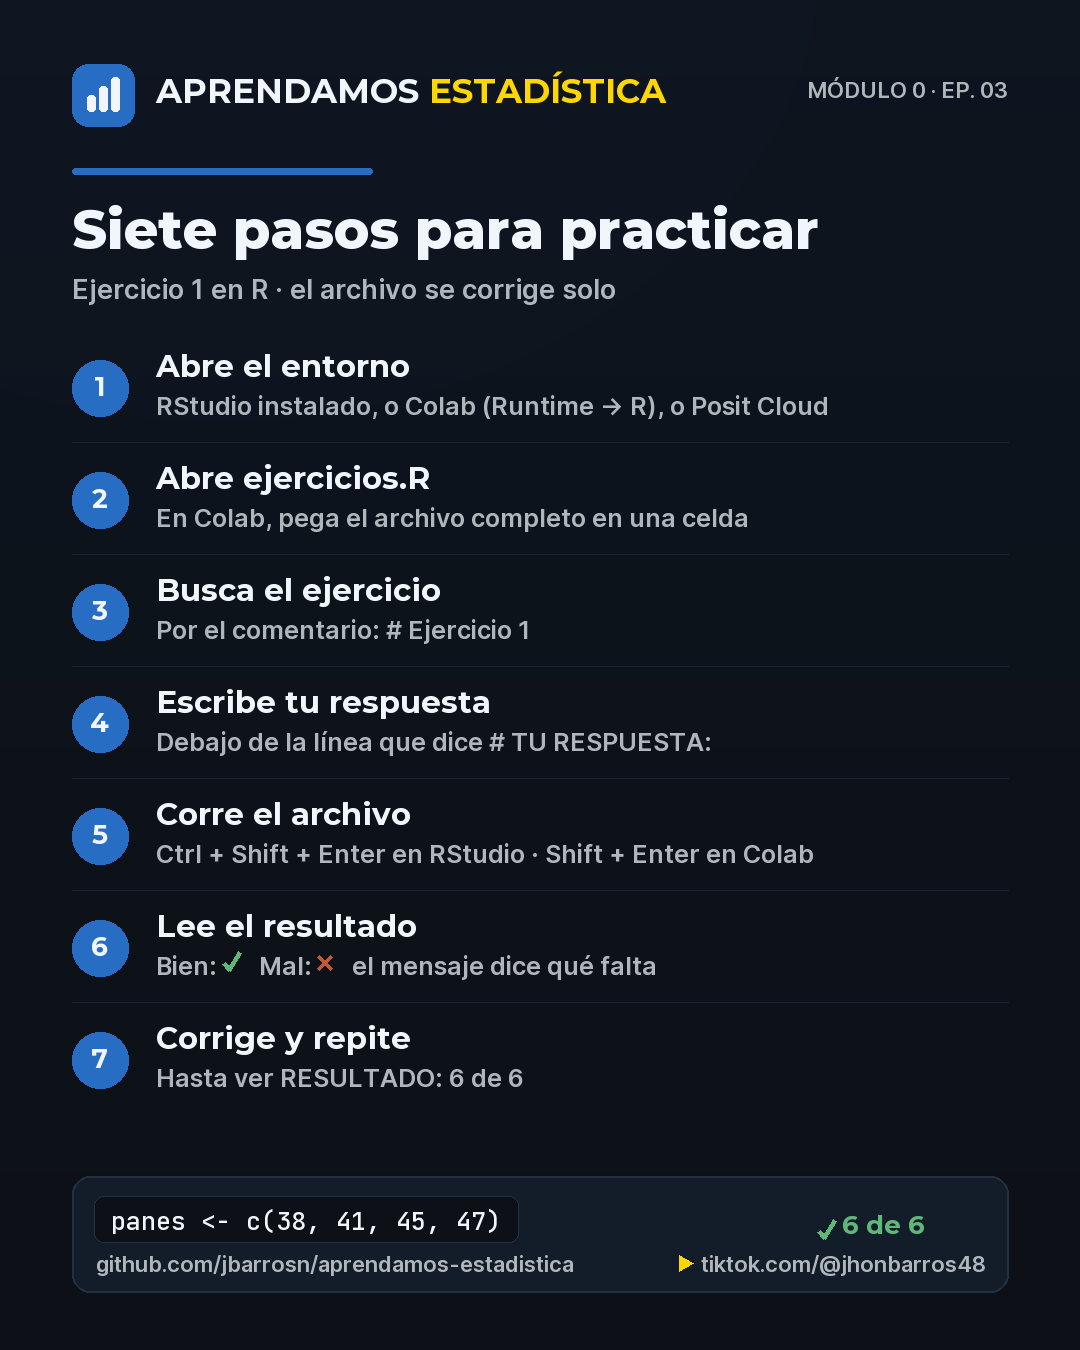
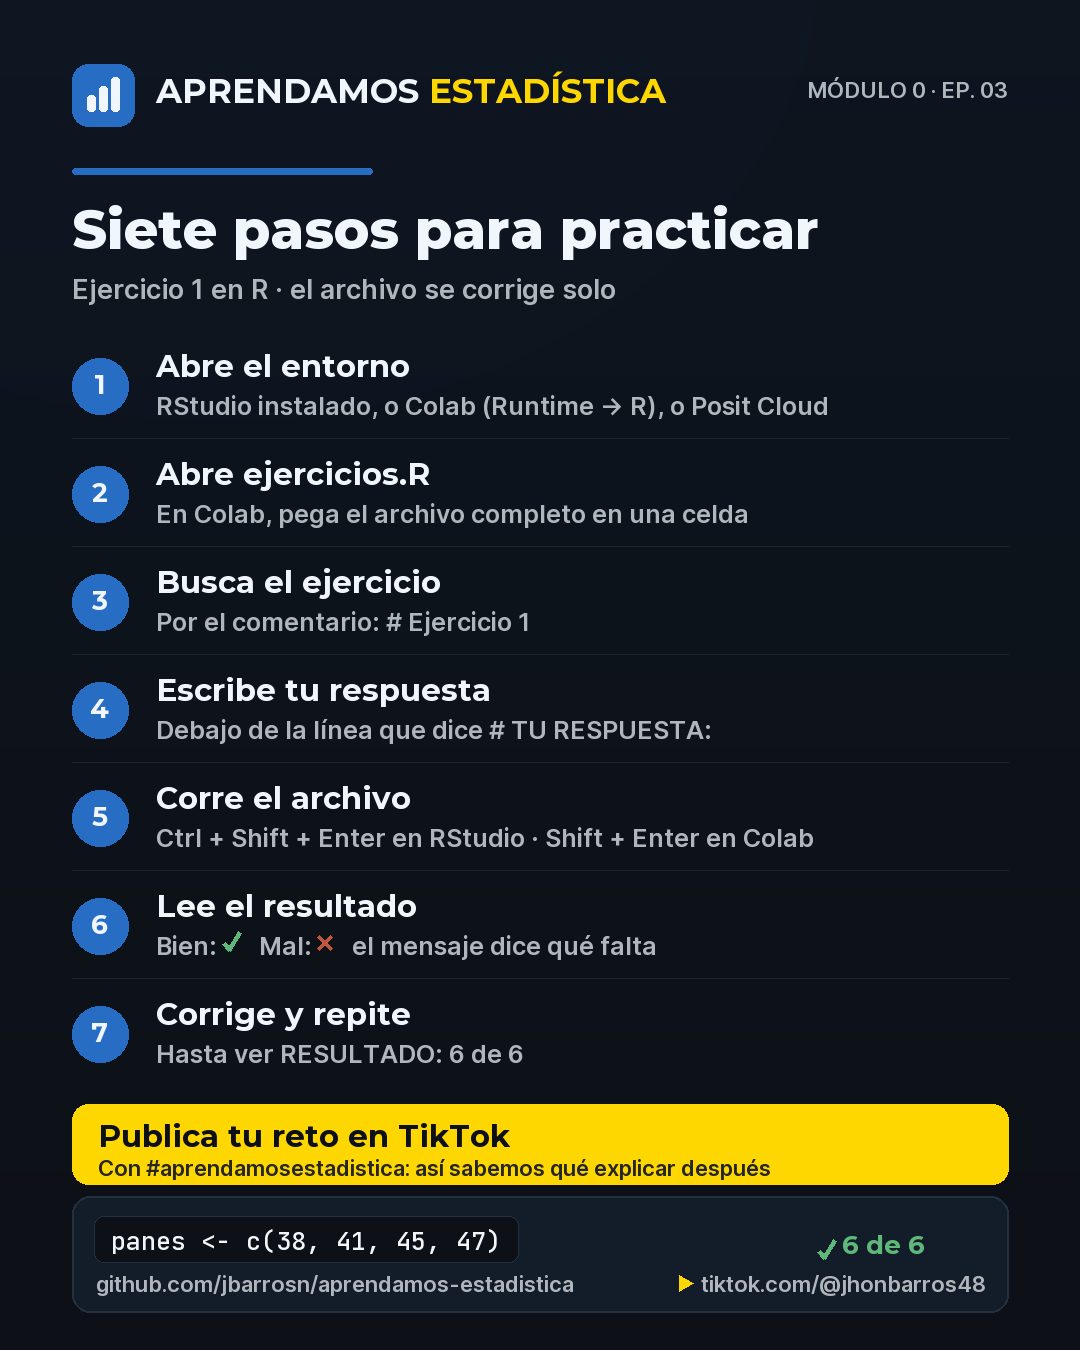
Poster y practica: publica tu reto con #aprendamosestadistica

Changed region(s): [[0.0611, 0.3422, 0.9472, 0.9644]]

diff --git a/docs/descripcion-actividad-ep03.md b/docs/descripcion-actividad-ep03.md
@@ -76,7 +76,9 @@ En el último bloque del archivo:
 raices <- sapply(panes, sqrt)
 ```
 
-Ese reto no afecta a los seis ejercicios. **Publícalo en los comentarios del video**, junto con la captura de tu resultado: así se ve que practicaste y no solo que viste el video.
+Ese reto no afecta a los seis ejercicios. **Publícalo en TikTok con `#aprendamosestadistica`**, junto con la captura de tu resultado.
+
+No es por lucirte: lo que se traba en el reto es lo que explica el próximo episodio. Si nadie publica, grabamos a ciegas.
 
 ---
 
